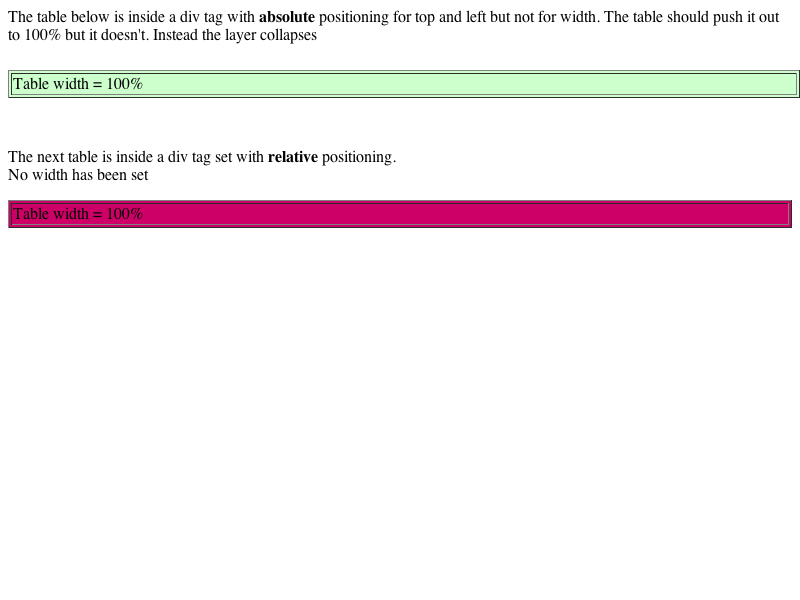
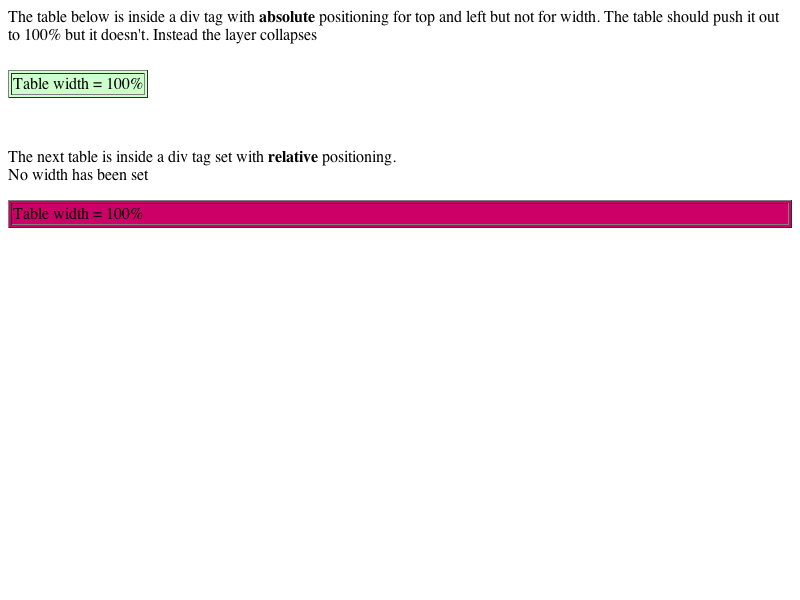
IE quirk for percentage size on a table element doesn't work with orthogonal writing modes https://bugs.webkit.org/show_bug.cgi?id=70195
Reviewed by Eric Seidel.

Source/WebCore:

Remove this quirk entirely. Mozilla and Opera don't implement it and IE
doesn't restrict the quirk to standards mode. As it's unlikely for
webkit-only content to hit this quirk (e.g. use tables for layout),
it should be relatively safe to match Mozilla/Opera here.

Test: fast/writing-mode/table-percent-width-quirk.html

* rendering/RenderBlock.cpp:
(WebCore::RenderBlock::computeBlockPreferredLogicalWidths):

LayoutTests:

* fast/table/032.html:
* fast/writing-mode/table-percent-width-quirk-expected.png: Added.
* fast/writing-mode/table-percent-width-quirk-expected.txt: Added.
* fast/writing-mode/table-percent-width-quirk.html: Added.
* platform/mac/fast/table/032-expected.png:
* platform/mac/fast/table/032-expected.txt:
* platform/mac/tables/mozilla/bugs/bug55694-expected.png:
* platform/mac/tables/mozilla/bugs/bug55694-expected.txt:

git-svn-id: http://svn.webkit.org/repository/webkit/trunk/LayoutTests@104208 268f45cc-cd09-0410-ab3c-d52691b4dbfc

Changed region(s): [[0.1562, 0.09, 1.0, 0.18]]

diff --git a/fast/writing-mode/table-percent-width-quirk.html b/fast/writing-mode/table-percent-width-quirk.html
@@ -1,0 +1,53 @@
+<style>
+* {
+    font-size: 16px;
+    font-family: Times;
+    padding: 0;
+    border-spacing: 0;
+    line-height: 10px;
+}
+.vertical {
+    -webkit-writing-mode: vertical-rl;
+    writing-mode: tb-rl;
+}
+.horizontal {
+     -webkit-writing-mode: horizontal-tb;
+     writing-mode: lr-tb;
+}
+.container {
+    width: 100px;
+    height: 50px;
+    position: absolute;
+    background-color: grey;
+}
+.positioned-child {
+    position: absolute;
+    background-color: blue;
+}
+.leaf {
+    background-color: green;
+}
+.content {
+    height: 20px;
+    width: 20px;
+}
+</style>
+<!-- Each pair of cases below should render the same. -->
+<div class="container" style="top: 50px">
+    <div class="positioned-child"><div class="content"></div><div class="leaf" style="width: 100%;"><div class="content"></div></div></div>
+</div>
+<div class="container" style="top: 125px">
+    <div class="positioned-child"><div class="content"></div><table class="leaf" style="width: 100%;"><tr><td><div class="content"></div></table></div>
+</div>
+<div class="container vertical" style="top: 200px">
+    <div class="positioned-child"><div class="content"></div><table class="leaf" style="height: 100%;"><tr><td><div class="content"></div></table></div>
+</div>
+<div class="container vertical" style="top: 275px">
+    <div class="positioned-child"><div class="content"></div><div class="leaf" style="height: 100%;"><div class="content"></div></div></div>
+</div>
+<div class="container vertical" style="top: 350px">
+    <div class="positioned-child"><div class="content"></div><table class="leaf horizontal" style="width: 100%;"><tr><td><div class="content"></div></table></div>
+</div>
+<div class="container vertical" style="top: 425px">
+    <div class="positioned-child"><div class="content"></div><div class="leaf horizontal" style="width: 100%;"><div class="content"></div></div></div>
+</div>

diff --git a/fast/table/032.html b/fast/table/032.html
@@ -1,11 +1,8 @@
-Because we're in quirks mode, you should see a 100x100 green square below.  If the square is
-only a couple of pixels wide or tall, then the test has failed.
-
+<!-- Should see a 6px by 100px green rectangle. -->
 <div style="position:absolute; width:100px; top:50px;">
 <div style="position:absolute;left:0px;top:50px;height:50px;background-color:green">
-		<table style="width:100%"><tr><td></table>
-	</div>
-
+	<table style="width:100%"><tr><td></table>
+</div>
 <div style="float:left; background-color:green; height:50px">
 <table style="width:100%"><tr><td></table>
 </div>
